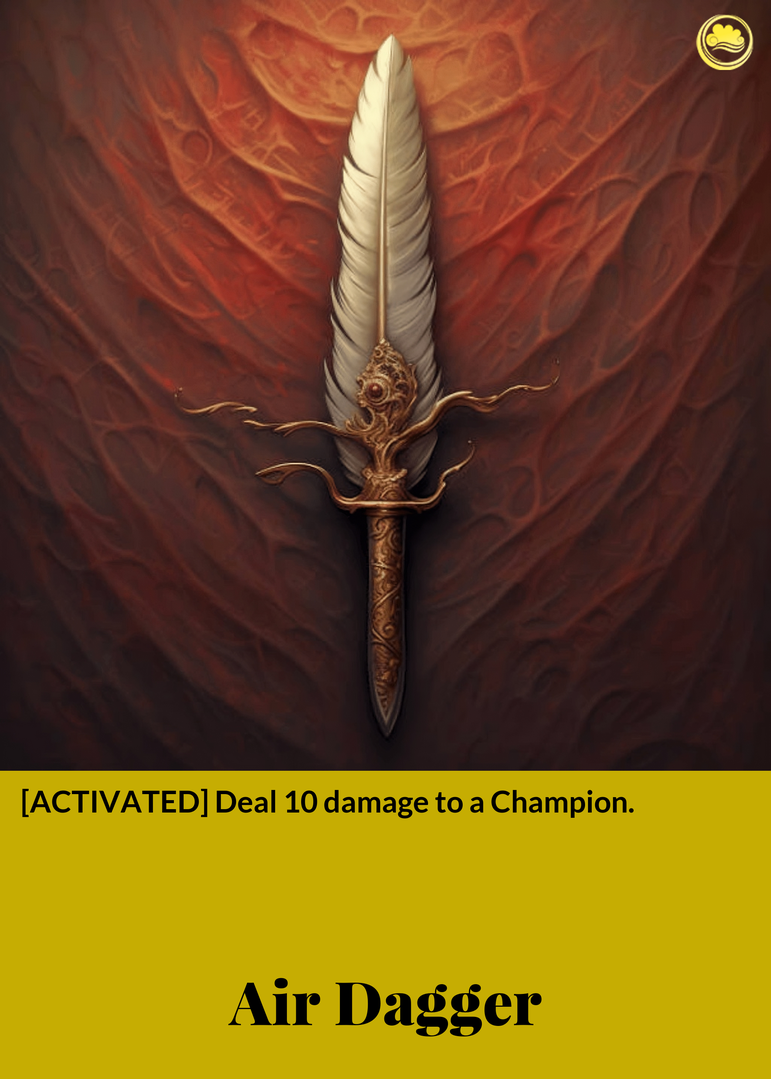
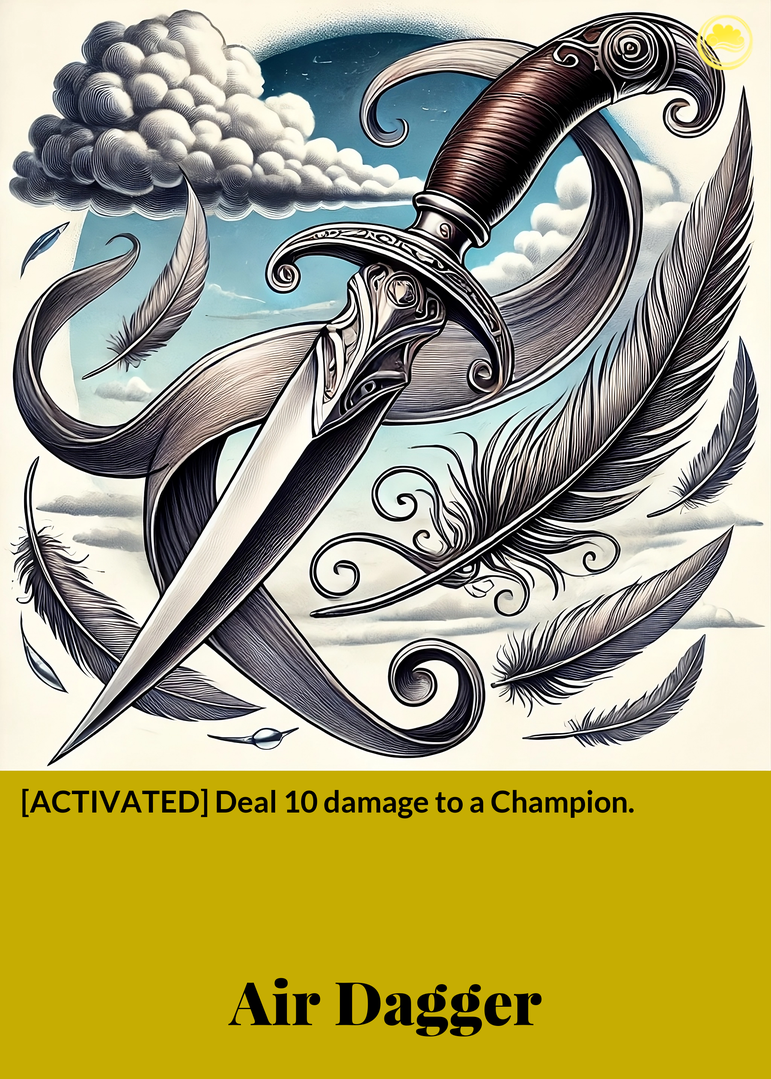
Generated new assets with updated dagger art

diff --git a/GenerateCards.py b/GenerateCards.py
@@ -456,7 +456,7 @@ for path in equipment_json_paths:
         )
 """
 # Create pixel art versions of cards
-"""
+
 for path in champion_json_paths:
     with open(f"card_json/{path}.json", "r", encoding="utf-8") as json_file:
         loaded_json = json.load(json_file)
@@ -483,7 +483,7 @@ for path in equipment_json_paths:
             f"finished_cards/pixel_art_cards/{card["type"]}/{card["card_name"]}_card.png",
             "PNG",
         )
-"""
+
 # Create pixel art versions of artwork
 """
 for path in champion_json_paths:
